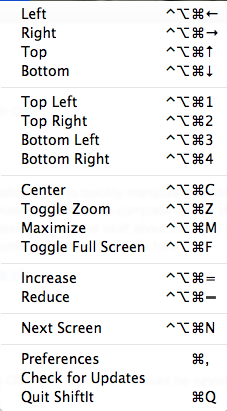
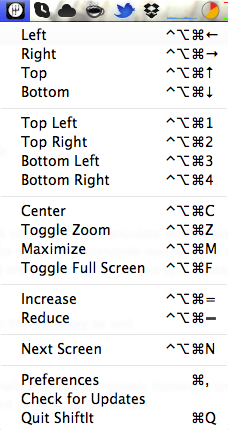
Updated docs

diff --git a/README.md b/README.md
@@ -13,11 +13,11 @@ Change logs: change logs are versioned in the [repository](https://github.com/fi
 
 ## User guide
 
-ShiftIt installs itself in the menu bar (optionally it can be completely hidden). It provides a set of actions that manipulates windows positions and sizes. Following is the current list of actions available.
+ShiftIt installs itself in the menu bar (optionally it can be completely hidden). It provides a set of actions that manipulates windows positions and sizes. Following is an example of list of actions available:
 
-![Screenshot Menu](https://github.com/fikovnik/ShiftIt/raw/master/docs/screenshot-menu.png)
+![Screenshot Menu](https://raw.github.com/fikovnik/ShiftIt/develop/docs/schreenshot-menu.png)
 
-Normally, all Cocoa windows and X11 windows are supported. Some applications do not work correctly or not at all. There is a [list of known problems](https://github.com/fikovnik/ShiftIt/wiki/Application-Compatibility-Issues). If you find any problem not mentioned there, please submit an issue.
+Normally, all Cocoa windows and X11 windows are supported. Some applications might not work correctly or not at all. There is a [list of known problems](https://github.com/fikovnik/ShiftIt/wiki/Application-Compatibility-Issues). If you find any problem not mentioned there, please submit an issue.
 
 ## Requirements
 
